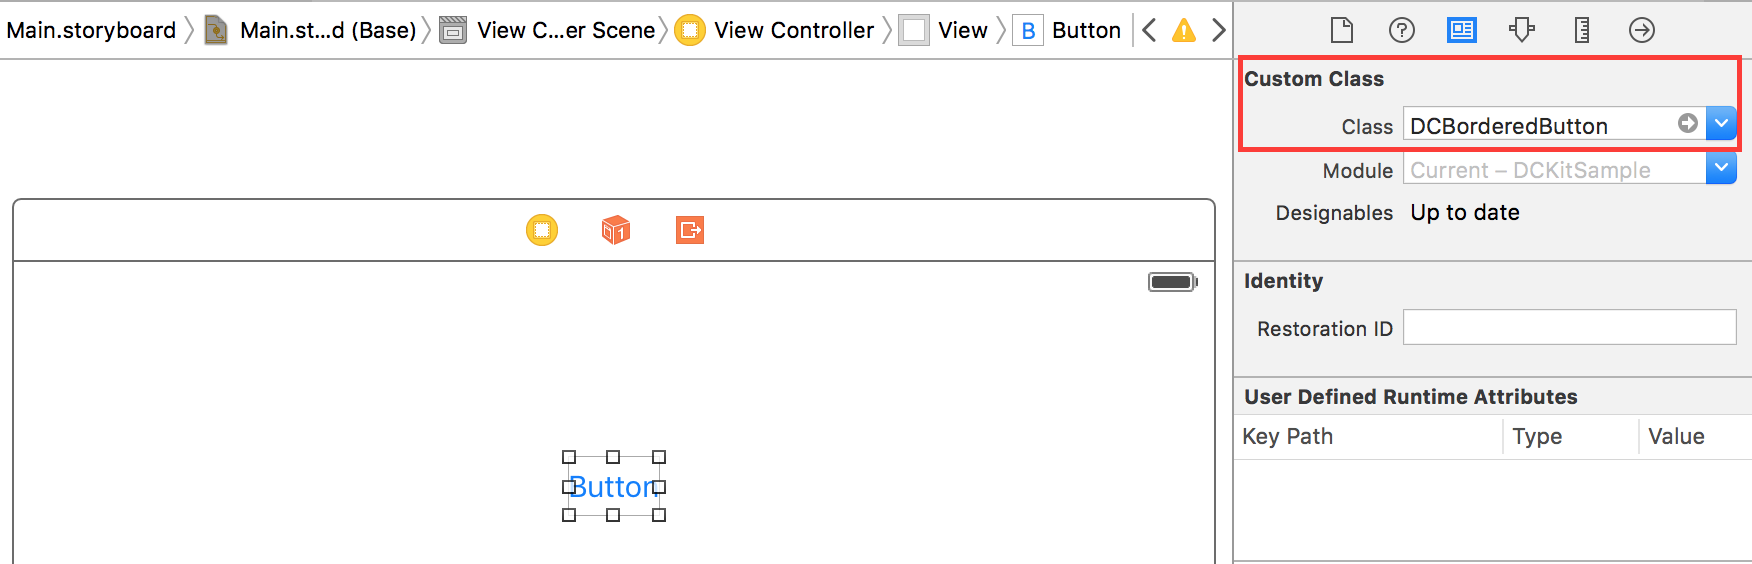
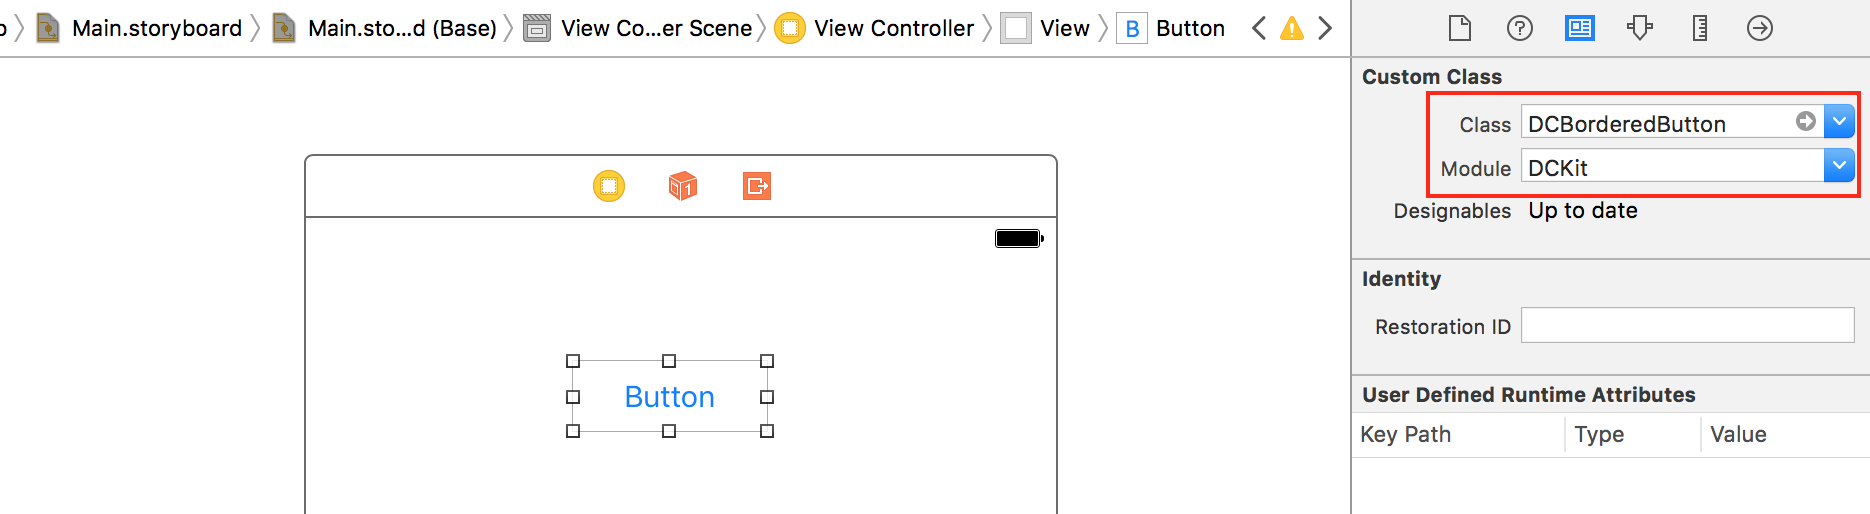
Swift 3.0 support.

diff --git a/Classes/UIViews/DCDashedBorderedView.swift b/Classes/UIViews/DCDashedBorderedView.swift
@@ -31,13 +31,13 @@ public class DCDashedBorderedView: DCBaseView {
     
     @IBInspectable public var dashLength: CGFloat = 4.0 {
         didSet {
-            borderLayer.lineDashPattern = [dashLength, dashSpace]
+            borderLayer.lineDashPattern = [NSNumber(value: Float(dashLength)), NSNumber(value: Float(dashSpace))]
         }
     }
     
     @IBInspectable public var dashSpace: CGFloat = 2.0 {
         didSet {
-            borderLayer.lineDashPattern = [dashLength, dashSpace]
+            borderLayer.lineDashPattern = [NSNumber(value: Float(dashLength)), NSNumber(value: Float(dashSpace))]
         }
     }
 
@@ -61,7 +61,7 @@ public class DCDashedBorderedView: DCBaseView {
     public func addBorder() {
         borderLayer.strokeColor = borderColor.cgColor
         borderLayer.fillColor = UIColor.clear.cgColor
-        borderLayer.lineDashPattern = [dashLength, dashSpace]
+        borderLayer.lineDashPattern = [NSNumber(value: Float(dashLength)), NSNumber(value: Float(dashSpace))]
         borderLayer.lineWidth = borderWidth / UIScreen.main.scale
         
         // http://stackoverflow.com/questions/4735623/uilabel-layer-cornerradius-negatively-impacting-performance

diff --git a/Classes/UIViews/DCHairlineView.swift b/Classes/UIViews/DCHairlineView.swift
@@ -26,12 +26,12 @@ public class DCHairlineView: UIView {
     public override func draw(_ rect: CGRect) {
         let context = UIGraphicsGetCurrentContext()
         if horizontal {
-            context?.moveTo(x: rect.minX, y: rect.maxY)
-            context?.addLineTo(x: rect.maxX, y: rect.maxY)
+            context?.move(to: CGPoint(x: rect.minX, y: rect.maxY))
+            context?.addLine(to: CGPoint(x: rect.maxX, y: rect.maxY))
         }
         else {
-            context?.moveTo(x: rect.minX, y: rect.minY)
-            context?.addLineTo(x: rect.minX, y: rect.maxY)
+            context?.move(to: CGPoint(x: rect.minX, y: rect.minY))
+            context?.addLine(to: CGPoint(x: rect.minX, y: rect.maxY))
         }
         context?.setStrokeColor(color.cgColor )
         context?.setLineWidth(width / UIScreen.main.scale)

diff --git a/Classes/UITextFields/DCMandatoryNumberTextField.swift b/Classes/UITextFields/DCMandatoryNumberTextField.swift
@@ -36,15 +36,16 @@ public class DCMandatoryNumberTextField: DCMandatoryTextField {
     // MARK: - Validation
     
     override public func isValid() -> Bool {
-        let value = (text ?? "" as NSString).floatValue
-        
-        var valid = value < maxValue
-        
-        // If the field is Mandatory and empty - it's invalid
-        if text == "" {
+        var valid = true
+
+        if let value = Float(text ?? "") {
+            valid = value < maxValue
+        }
+        else {
+            // If the field is Mandatory and empty - it's invalid
             valid = !isMandatory
         }
-        
+
         isSelected = !valid
         return valid
     }

diff --git a/Classes/UITextFields/DCPickerTextField.swift b/Classes/UITextFields/DCPickerTextField.swift
@@ -43,7 +43,7 @@ public class DCPickerTextField: DCBorderedTextField {
     }
     
     // http://stackoverflow.com/questions/1426731/how-disable-copy-cut-select-select-all-in-uitextview
-    override public func canPerformAction(_ action: Selector, withSender sender: AnyObject?) -> Bool {
+    override public func canPerformAction(_ action: Selector, withSender sender: Any?) -> Bool {
         return false
     }
 

diff --git a/README.md b/README.md
@@ -1,7 +1,7 @@
 # DCKit
 DCKit is a set of *@IBDesignable* iOS controls (`UIButtons`, `UITextFields` etc.), which have useful *@IBInspectable* properties. They allows you to build a nice screens, see a result directly on Xcode Interface Builder.
 
-Written on Swift 2.1.
+Written on Swift.
 
 ##Preview
 
@@ -13,7 +13,8 @@ Written on Swift 2.1.
 
 [CocoaPods](http://www.cocoapods.org) recommended to use DCKit.
 
-1. Add `pod 'DCKit'` to your *Podfile*.
+1.1. For Swift 2.3 and below: Add `pod 'DCKit'` to your *Podfile*.
+1.2. For Swift 3: Add `pod 'DCKit', :git => 'https://github.com/andrew8712/DCKit.git'` to your *Podfile*. 
 2. Add `use_frameworks!` keyword to your *Podfile*. The library is written on Swift, so this is a mandatory.
 2. Install the pod(s) by running `pod install`.
 
@@ -26,7 +27,7 @@ Written on Swift 2.1.
 
 1. Add a control (e.g. `UIButton`) onto storyboard:
 [![Add a control (e.g. UIButton) onto storyboard](Images/screenshot_002.png)](Images/screenshot_002.png)
-2. Change the button's class to `DCBorderedButton`. You'll notice a border appeared around the button:
+2. Change the button's class to `DCBorderedButton`. Also change module to `DCKit` if you've installed the library via CocoaPods. You'll notice a border appeared around the button:
 [![Change the button's class to DCBorderedButton](Images/screenshot_003.png)](Images/screenshot_003.png)
 3. Now you're able to customize the button from IB directly:
 [![Now you're able to customize the button from IB directly](Images/screenshot_004.png)](Images/screenshot_004.png)
